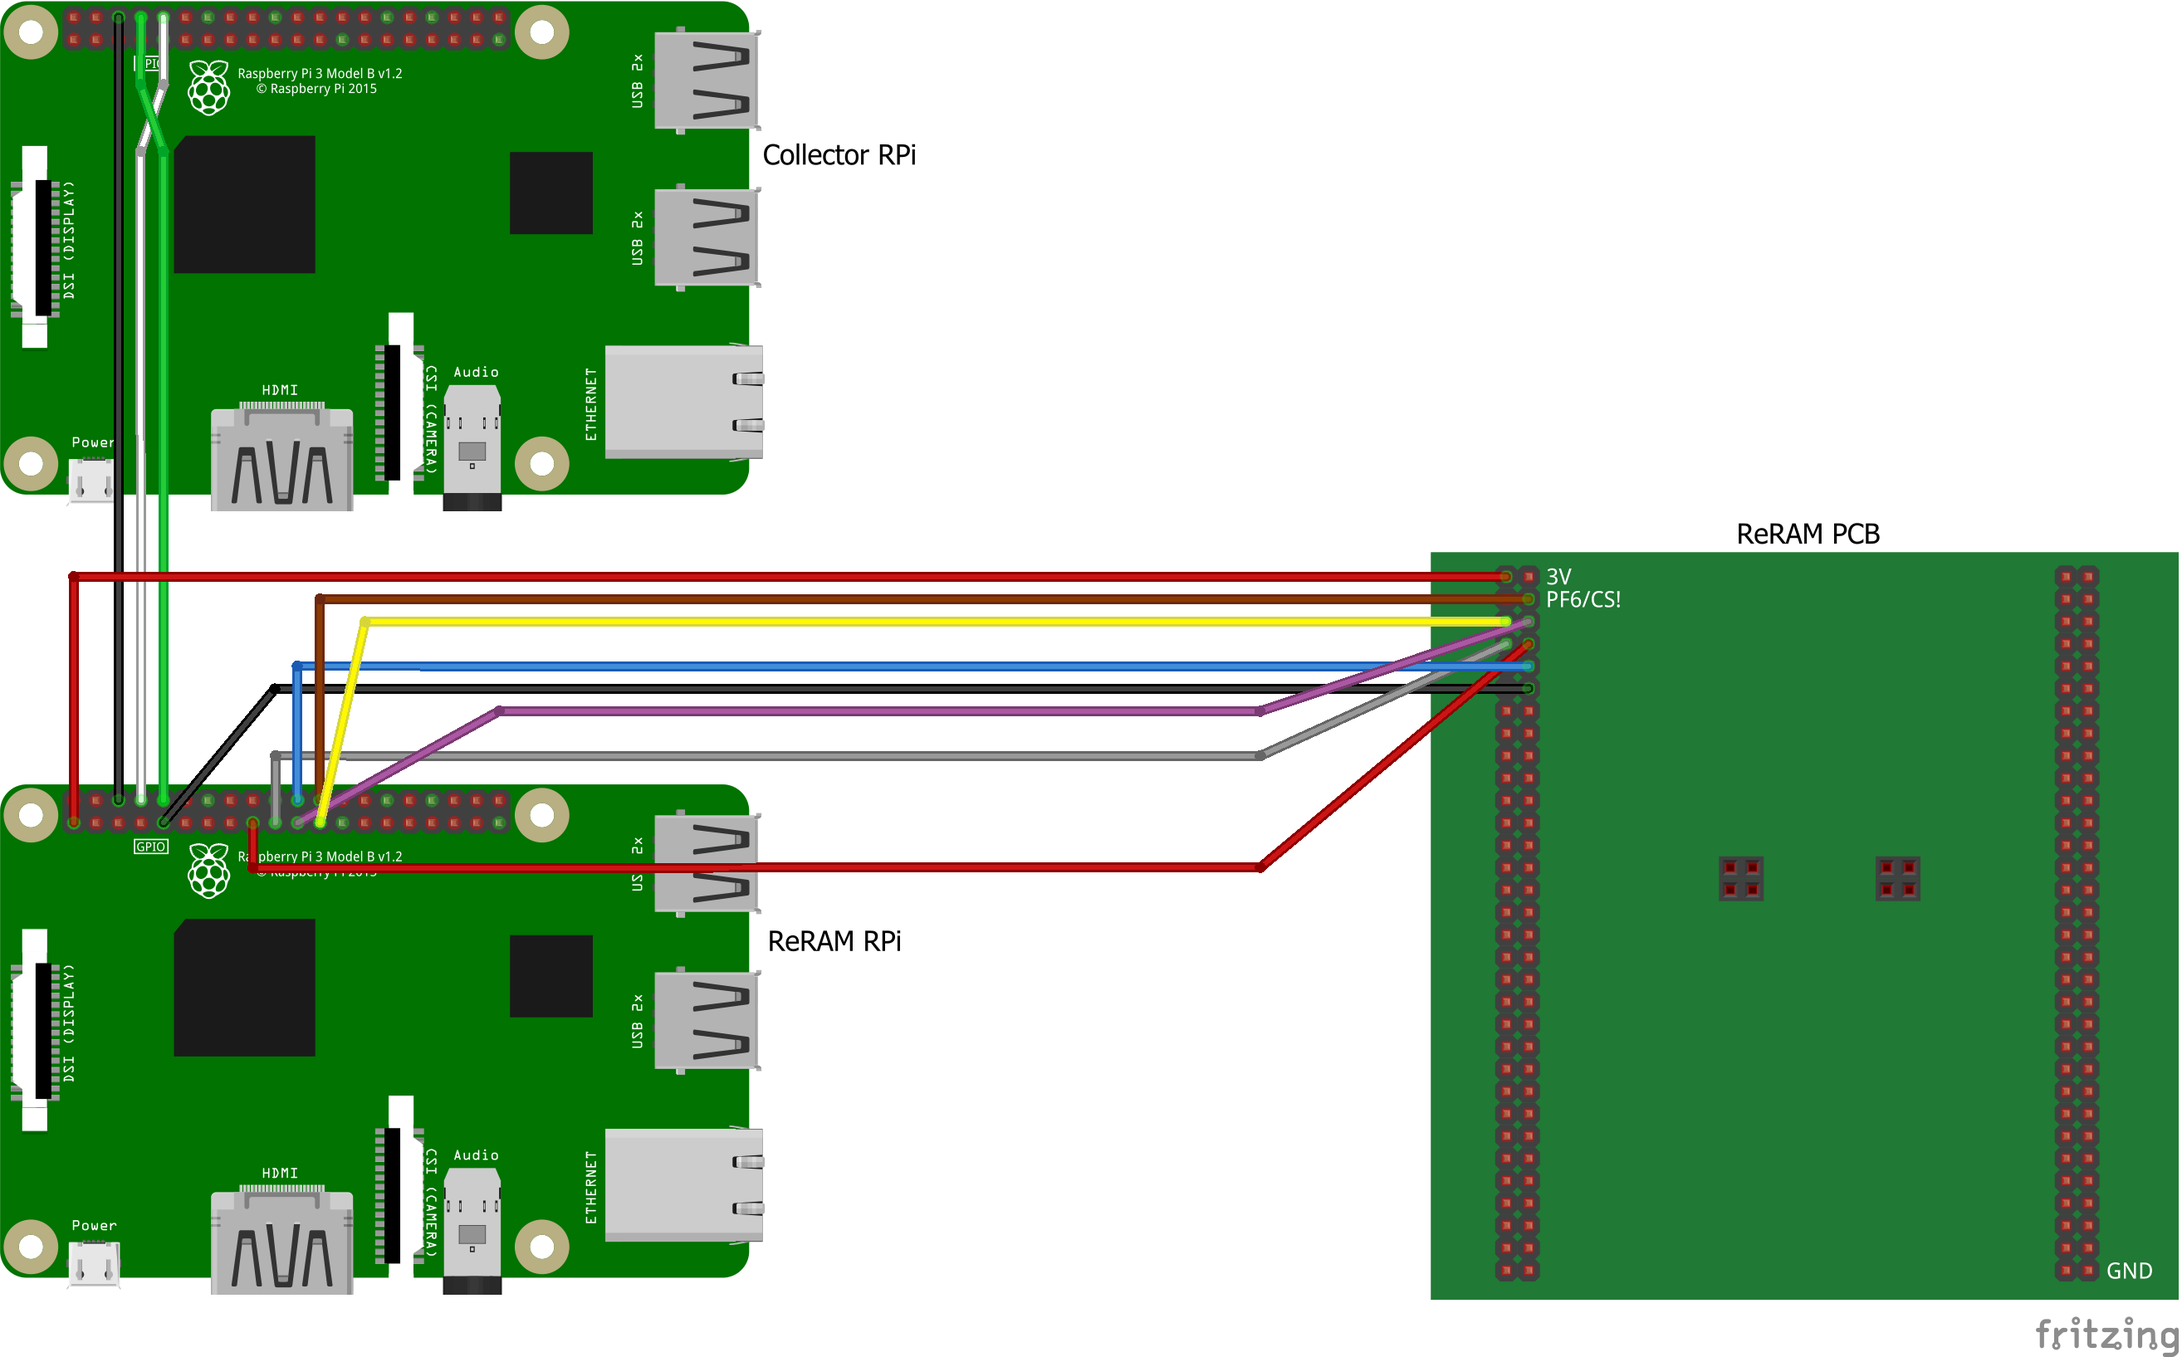
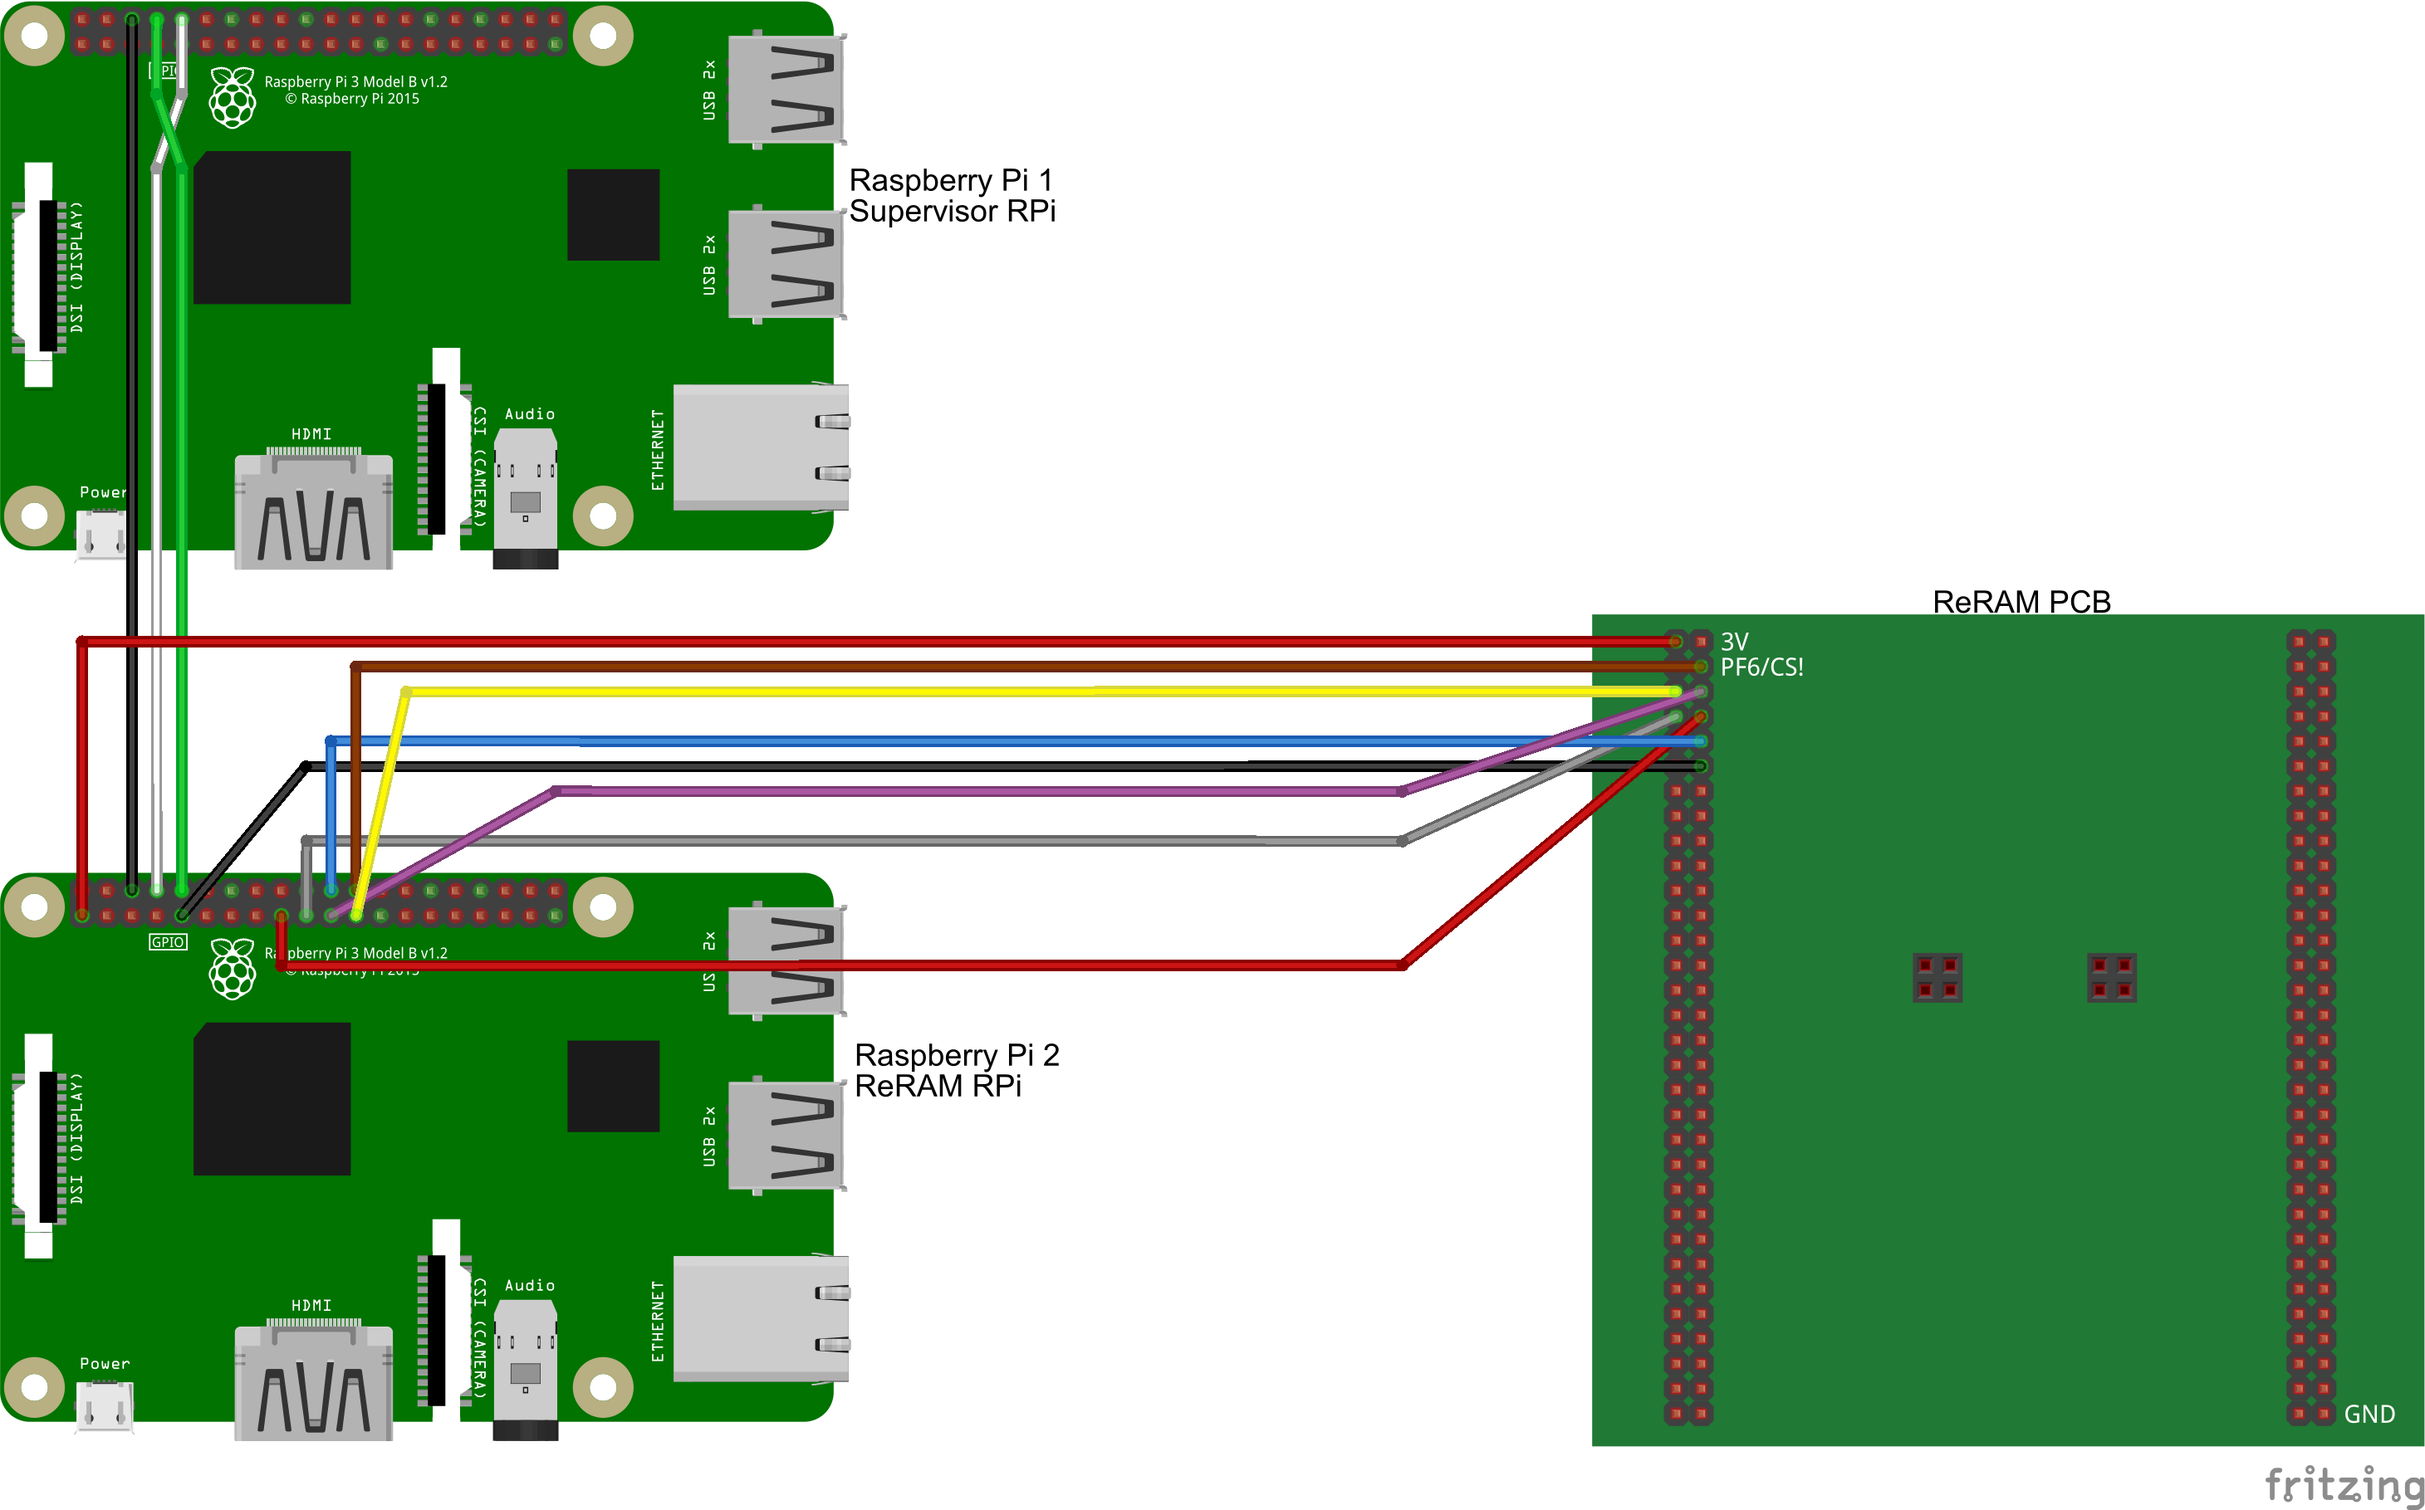
Update documentation

diff --git a/doc/Setup.md b/doc/Setup.md
@@ -4,7 +4,7 @@
 - `ReRAM`: Resistive Random Access Memory
 - `PCB`: Printed Circuit Board
 - `TRNG`: True Random Number Generator
-- `Collector RPi`: The Raspberry Pi which collects all the TRNG data (the one with a `1` in its ID)
+- `Supervisor RPi`: The Raspberry Pi which supervises the progress (the one with a `1` in its ID)
 - `ReRAM RPi`: The RPi which is connected to the ReRAM PCB (the one with a `2` in its ID)
 
 # Wiring
@@ -16,39 +16,34 @@
 ## Use a Pre-built Kernel
 
 1. Go to the [latest pipeline build](https://git.fim.uni-passau.de/mexis/rpi_measurement_kernel/-/pipelines/latest)
-1. Click on the build that corresponds to your ReRAM RPi
+1. Open its build log
 1. On the right sidebar, click on `Download` under `Job artifacts`
 1. The zip file contains all the relevant files. Be sure to rename the kernel that you want to deploy to just `kernel8.img`!
 
 ## Doing It Yourself
 
-1. Clone this Git repository
+1. Clone this Git repository (remember to also initialise the `circle` submodule!)
 1. Install either a cross-compiling `gcc` instance (`gcc-aarch64-linux-gnu`) or the native `gcc` if you are already on the ARMv8/AARCH64v8 platform
-1. Install `make` and just run `make`
+1. Install `make` and `wget`
+1. Run `./init.sh`
+1. Run `make`
 1. You should get a `kernel8.img` file after a few moments
-1. Now run `make armstub`
-1. You should get a `armstub-new.bin` file a few moments (this does not need to be recompiled in the future)
+1. All the other required files can be found in `circle/boot`
 
 # ReRAM RPi Setup
 
 1. Start Raspberry Pi Imager
 1. Select `Raspberry Pi OS Lite 64 bit` as image
-1. Select **correct** SD card
+1. Select the **correct** SD card
 1. Advanced settings: don't matter
 1. Select `Write`
 1. Wait until done
 1. Briefly disconnect the SD card from the computer and insert it again
-1. Change the following files on the `bootfs` partition of the SD card:
-    1. Rename `kernel8.img` to `kernel8.img.orig`
-    1. Copy `kernel8.img` from the `RPi_Measurement_Kernel` project as `kernel8.img` to `bootfs` partition
-    1. Copy `armstub-new.bin` to `bootfs` partition
-    1. Rename `config.txt` to `config.txt.orig`
-    1. Copy `config.txt` from the `RPi_Measurement_Kernel` project as `config.txt` to `bootfs` partition
-    1. Remove from `cmdline.txt` the following text excerpt (nothing else!): `console=serial0,115200 `
-1. Put SD card in RPi with the `2` in its ID
+1. You can remove all the files on the SD-card and copy the required files from the previous step onto its boot partition
+1. Put the SD card in RPi with the `2` in its ID
 1. **Do not turn it on yet**
 
-# Collector RPi Setup
+# Supervisor RPi Setup
 
 ## Firmware Setup
 
@@ -58,7 +53,7 @@
 1. Advanced settings: 
     - `Hostname`: Self-selectable (preferably name corresponding to letters on RPi, e.g. `A1 -> alice`, `B1 -> bob` etc.).
     - `Enable SSH`: Check the box and select `Use password for authentication`
-    - `Set up Wifi`: Check the box and insert the data from the hotspot; also select the correct wifi country (probably corresponding to the language of the mobile phone)
+    - `Set up Wifi`: Check the box and insert the data from your hotspot; also select the correct wifi country (probably corresponding to the language of the mobile phone)
     - Remaining parameters do not matter
 1. Select `Write`
 1. Wait until ready
@@ -67,7 +62,7 @@
 1. Turn on the RPi
 1. Connect laptop to hotspot
 1. Wait until RPi is logged into the hotspot (may take a while at the first start...)
-1. Connect to RPi via SSH (try the host name as the IP address, otherwise brute-force via e.g. "Angry IP Scanner")
+1. Connect to RPi via `ssh` (try the host name as the IP address, otherwise use `ip neigh` or brute-force via e.g. "Angry IP Scanner")
 1. Execute command: `sudo apt update && sudo apt install minicom screen && sudo raspi-config`
 1. Navigate to "Interface Options" and select "Serial Port".
 1. For `Would you like a login shell [...]` select: `<No>`
@@ -93,7 +88,7 @@
 
 # Test Run
 
-1. Make sure that you are inside `minicom` in the Collector RPi
+1. Make sure that you are inside `minicom` in the Supervisor RPi
 1. Make sure that everything is wired up correctly
 1. Turn on the ReRAM RPi
 1. You should see logs inside `minicom`. If not, something went wrong!
